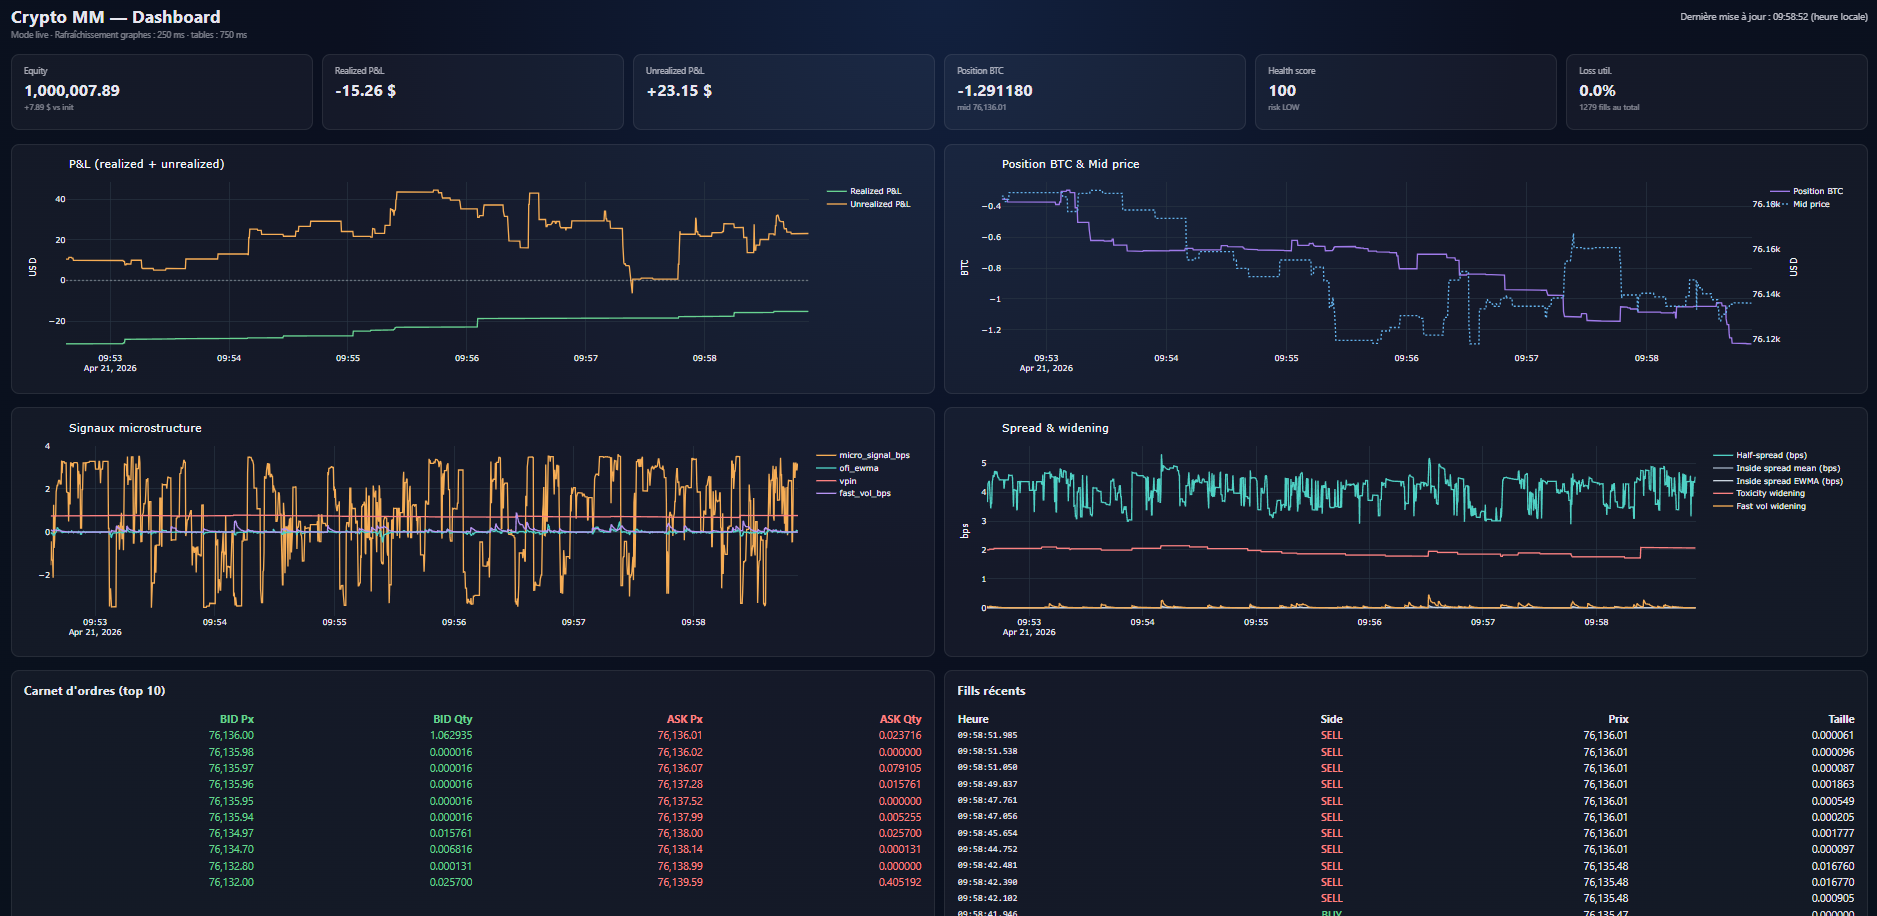
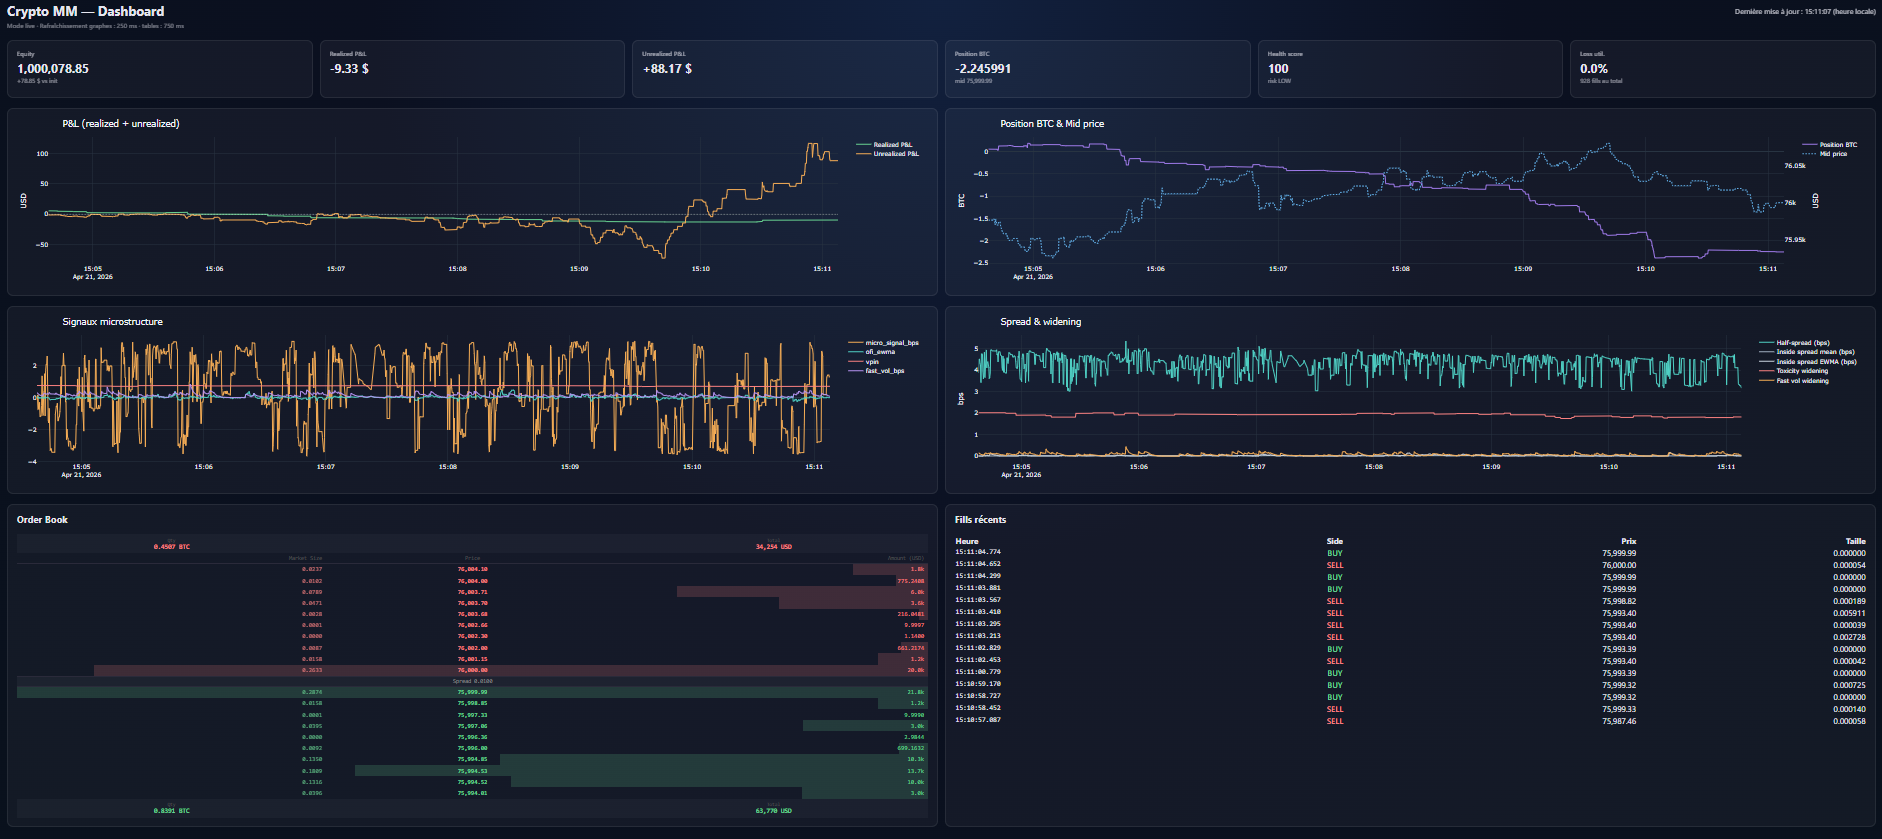
Fixed clean feature and improved UI

diff --git a/crypto_mm/ui/dash_app.py b/crypto_mm/ui/dash_app.py
@@ -217,7 +217,7 @@ def build_layout(data_dir: Path, refresh_ms: int) -> html.Div:
                     html.Div(
                         style=CARD_STYLE,
                         children=[
-                            html.H3("Carnet d'ordres (top 10)", style={"marginTop": 0}),
+                            html.H3("Order Book", style={"marginTop": 0}),
                             html.Div(id="book-table"),
                         ],
                     ),
@@ -417,98 +417,157 @@ def build_spread_figure(state_df: pd.DataFrame, pre_parsed: bool = False) -> go.
     return fig
 
 
+def _fmt_qty(qty: float) -> str:
+    """Format quantity: 1234567 → '1.23M', 12345 → '12.3k', 1.5 → '1.5000'."""
+    if qty >= 1_000_000:
+        return f"{qty / 1_000_000:.2f}M"
+    if qty >= 1_000:
+        return f"{qty / 1_000:.1f}k"
+    return f"{qty:.4f}"
+
+
 def build_book_table(book_df: pd.DataFrame) -> html.Div:
-    """Dernier snapshot du carnet : top 10 bids et asks."""
+    """Orderbook DOM-style : asks en haut (inversées), bids en bas, barres de volume."""
     if book_df.empty or "timestamp" not in book_df.columns:
         return html.Div("En attente de données...", style={"opacity": 0.6})
-    # Dernier timestamp présent
+
     last_ts = book_df["timestamp"].iloc[-1]
     last = book_df[book_df["timestamp"] == last_ts]
     bids = last[last["side"] == "bid"].sort_values("rank").head(10)
     asks = last[last["side"] == "ask"].sort_values("rank").head(10)
 
-    def make_rows(df: pd.DataFrame, color: str) -> list:
-        rows = []
-        for _, r in df.iterrows():
-            rows.append(
-                html.Tr(
-                    [
-                        html.Td(
-                            f"{r['price']:,.2f}",
-                            style={"color": color, "textAlign": "right"},
-                        ),
-                        html.Td(
-                            f"{r['quantity']:.6f}",
-                            style={"color": color, "textAlign": "right"},
-                        ),
-                    ]
-                )
-            )
-        return rows
+    if bids.empty and asks.empty:
+        return html.Div("Données insuffisantes", style={"opacity": 0.6})
 
-    return html.Table(
-        style={"width": "100%", "borderCollapse": "collapse"},
-        children=[
-            html.Thead(
-                html.Tr(
+    max_qty = max(
+        bids["quantity"].max() if not bids.empty else 0,
+        asks["quantity"].max() if not asks.empty else 0,
+    )
+
+    def book_row(price: float, qty: float, side: str) -> html.Div:
+        color = "#fc8181" if side == "ask" else "#68d391"
+        bar_rgba = (
+            "rgba(252,129,129,0.18)" if side == "ask" else "rgba(104,211,145,0.18)"
+        )
+        pct = min(100.0, (qty / max_qty * 100)) if max_qty > 0 else 0
+        # Bar grows from right for asks, from right for bids (DOM convention)
+        bg = f"linear-gradient(to left, {bar_rgba} {pct:.1f}%, transparent {pct:.1f}%)"
+        amount_usd = price * qty
+        return html.Div(
+            style={
+                "position": "relative",
+                "display": "grid",
+                "gridTemplateColumns": "2fr 2fr 2fr",
+                "background": bg,
+                "padding": "1px 8px",
+                "fontSize": "12px",
+                "lineHeight": "1.7",
+                "fontFamily": "monospace",
+            },
+            children=[
+                html.Span(
+                    _fmt_qty(qty),
+                    style={"color": color, "textAlign": "right", "opacity": 0.85},
+                ),
+                html.Span(
+                    f"{price:,.2f}",
+                    style={"color": color, "textAlign": "center", "fontWeight": "600"},
+                ),
+                html.Span(
+                    _fmt_qty(amount_usd),
+                    style={"color": color, "textAlign": "right"},
+                ),
+            ],
+        )
+
+    # Totaux ask / bid
+    ask_btc = asks["quantity"].sum() if not asks.empty else 0.0
+    ask_usd = (asks["price"] * asks["quantity"]).sum() if not asks.empty else 0.0
+    bid_btc = bids["quantity"].sum() if not bids.empty else 0.0
+    bid_usd = (bids["price"] * bids["quantity"]).sum() if not bids.empty else 0.0
+
+    def _summary_bar(btc: float, usd: float, side: str) -> html.Div:
+        color = "#fc8181" if side == "ask" else "#68d391"
+        cell = {"textAlign": "center", "fontFamily": "monospace"}
+        return html.Div(
+            style={
+                "display": "grid",
+                "gridTemplateColumns": "2fr 2fr 2fr",
+                "padding": "5px 8px",
+                "fontSize": "13px",
+                "background": "rgba(255,255,255,0.03)",
+            },
+            children=[
+                html.Div(
                     [
-                        html.Th(
-                            "BID Px", style={"textAlign": "right", "color": "#68d391"}
-                        ),
-                        html.Th(
-                            "BID Qty", style={"textAlign": "right", "color": "#68d391"}
-                        ),
-                        html.Th(
-                            "ASK Px", style={"textAlign": "right", "color": "#fc8181"}
-                        ),
-                        html.Th(
-                            "ASK Qty", style={"textAlign": "right", "color": "#fc8181"}
-                        ),
+                        html.Div("Qty", style={"color": "#555", "fontSize": "10px", **cell}),
+                        html.Div(f"{btc:.4f} BTC", style={"color": color, "fontWeight": "600", **cell}),
                     ]
-                )
-            ),
-            html.Tbody(
-                [
-                    html.Tr(
-                        [
-                            html.Td(
-                                (
-                                    f"{bids.iloc[i]['price']:,.2f}"
-                                    if i < len(bids)
-                                    else ""
-                                ),
-                                style={"textAlign": "right", "color": "#68d391"},
-                            ),
-                            html.Td(
-                                (
-                                    f"{bids.iloc[i]['quantity']:.6f}"
-                                    if i < len(bids)
-                                    else ""
-                                ),
-                                style={"textAlign": "right", "color": "#68d391"},
-                            ),
-                            html.Td(
-                                (
-                                    f"{asks.iloc[i]['price']:,.2f}"
-                                    if i < len(asks)
-                                    else ""
-                                ),
-                                style={"textAlign": "right", "color": "#fc8181"},
-                            ),
-                            html.Td(
-                                (
-                                    f"{asks.iloc[i]['quantity']:.6f}"
-                                    if i < len(asks)
-                                    else ""
-                                ),
-                                style={"textAlign": "right", "color": "#fc8181"},
-                            ),
-                        ]
-                    )
-                    for i in range(max(len(bids), len(asks)))
-                ]
-            ),
+                ),
+                html.Div(),
+                html.Div(
+                    [
+                        html.Div("Total", style={"color": "#555", "fontSize": "10px", **cell}),
+                        html.Div(f"{usd:,.0f} USD", style={"color": color, "fontWeight": "600", **cell}),
+                    ]
+                ),
+            ],
+        )
+
+    ask_summary = _summary_bar(ask_btc, ask_usd, "ask")
+    bid_summary = _summary_bar(bid_btc, bid_usd, "bid")
+
+    # Header colonnes
+    header = html.Div(
+        style={
+            "display": "grid",
+            "gridTemplateColumns": "2fr 2fr 2fr",
+            "padding": "4px 8px 3px",
+            "fontSize": "11px",
+            "color": "#555",
+            "borderBottom": "1px solid #2a2a3a",
+            "fontFamily": "monospace",
+        },
+        children=[
+            html.Span("Market Size", style={"textAlign": "right"}),
+            html.Span("Price", style={"textAlign": "center"}),
+            html.Span("Amount (USD)", style={"textAlign": "right"}),
         ],
+    )
+
+    # Asks : du pire au meilleur (best ask en bas, juste au-dessus du spread)
+    ask_rows = [
+        book_row(r["price"], r["quantity"], "ask")
+        for _, r in asks.iloc[::-1].iterrows()
+    ]
+
+    # Spread separator
+    if not bids.empty and not asks.empty:
+        spread = asks.iloc[0]["price"] - bids.iloc[0]["price"]
+        spread_label = f"Spread  {spread:,.4f}"
+    else:
+        spread_label = "Spread  —"
+
+    spread_row = html.Div(
+        spread_label,
+        style={
+            "textAlign": "center",
+            "padding": "3px 8px",
+            "fontSize": "11px",
+            "color": "#888",
+            "background": "rgba(255,255,255,0.04)",
+            "borderTop": "1px solid #2a2a3a",
+            "borderBottom": "1px solid #2a2a3a",
+            "fontFamily": "monospace",
+        },
+    )
+
+    # Bids : du meilleur au pire (best bid en haut, juste sous le spread)
+    bid_rows = [book_row(r["price"], r["quantity"], "bid") for _, r in bids.iterrows()]
+
+    return html.Div(
+        style={"overflowX": "hidden"},
+        children=[ask_summary, header] + ask_rows + [spread_row] + bid_rows + [bid_summary],
     )
 
 
@@ -1104,7 +1163,7 @@ def _build_live_layout(refresh_ms: int) -> html.Div:
                     html.Div(
                         style=CARD_STYLE,
                         children=[
-                            html.H3("Carnet d'ordres (top 10)", style={"marginTop": 0}),
+                            html.H3("Order Book", style={"marginTop": 0}),
                             html.Div(id="book-table"),
                         ],
                     ),
@@ -1160,6 +1219,7 @@ def run_live_server_threaded(
     host: str = "127.0.0.1",
     port: int = 8050,
     refresh_ms: int = 100,
+    open_browser: bool = True,
 ) -> threading.Thread:
     """Lance le dashboard Dash live dans un thread daemon.
 
@@ -1167,6 +1227,7 @@ def run_live_server_threaded(
     le process principal puisqu'il est daemon.
     """
     import threading
+    import webbrowser
 
     dash_app = create_live_app(feed_app, refresh_ms=refresh_ms)
 
@@ -1183,6 +1244,12 @@ def run_live_server_threaded(
 
     t = threading.Thread(target=_serve, name="dash-live-server", daemon=True)
     t.start()
+
+    if open_browser:
+        url = f"http://{host}:{port}"
+        # Petit délai pour laisser le serveur Flask démarrer avant d'ouvrir le navigateur.
+        threading.Timer(1.5, webbrowser.open, args=(url,)).start()
+
     return t
 
 
@@ -1227,6 +1294,11 @@ def main() -> None:
         action="store_true",
         help="Active le mode debug Dash (hot reload).",
     )
+    parser.add_argument(
+        "--no-open-browser",
+        action="store_true",
+        help="Ne pas ouvrir le navigateur automatiquement au démarrage.",
+    )
     args = parser.parse_args()
 
     data_dir = Path(args.data_dir)
@@ -1237,8 +1309,14 @@ def main() -> None:
         data_dir.mkdir(parents=True, exist_ok=True)
 
     app = create_app(data_dir, refresh_ms=args.refresh_ms)
-    print(f"[dash] Dashboard démarré sur http://{args.host}:{args.port}")
+    url = f"http://{args.host}:{args.port}"
+    print(f"[dash] Dashboard démarré sur {url}")
     print(f"[dash] Source : {data_dir.resolve()}  ·  Refresh : {args.refresh_ms} ms")
+
+    if not args.no_open_browser:
+        import threading, webbrowser
+        threading.Timer(1.5, webbrowser.open, args=(url,)).start()
+
     app.run(
         host=args.host,
         port=args.port,

diff --git a/crypto_mm/tools/clean.py b/crypto_mm/tools/clean.py
@@ -10,7 +10,8 @@ DEFAULT_TARGETS = [
     "__pycache__",
 ]
 
-def remove_path(path: Path)->None:
+
+def remove_path(path: Path) -> None:
     if path.is_dir():
         shutil.rmtree(path, ignore_errors=True)
         print(f"Removed directory: {path}")
@@ -18,14 +19,21 @@ def remove_path(path: Path)->None:
         path.unlink(missing_ok=True)
         print(f"Removed file: {path}")
 
-def main()->None:
-    parser = argparse.ArgumentParser(description="Clean generated local data and cache folders.")
+
+def main() -> None:
+    parser = argparse.ArgumentParser(
+        description="Clean generated local data and cache folders."
+    )
     parser.add_argument("--root", default=".", help="Project root directory.")
     args = parser.parse_args()
     root = Path(args.root).resolve()
     for target in DEFAULT_TARGETS:
         for p in root.rglob(target):
+            # Skip crypto_mm/data/ — only the top-level data/ folder should be removed
+            if target == "data" and p != root / "data":
+                continue
             remove_path(p)
+
 
 if __name__ == "__main__":
     main()
